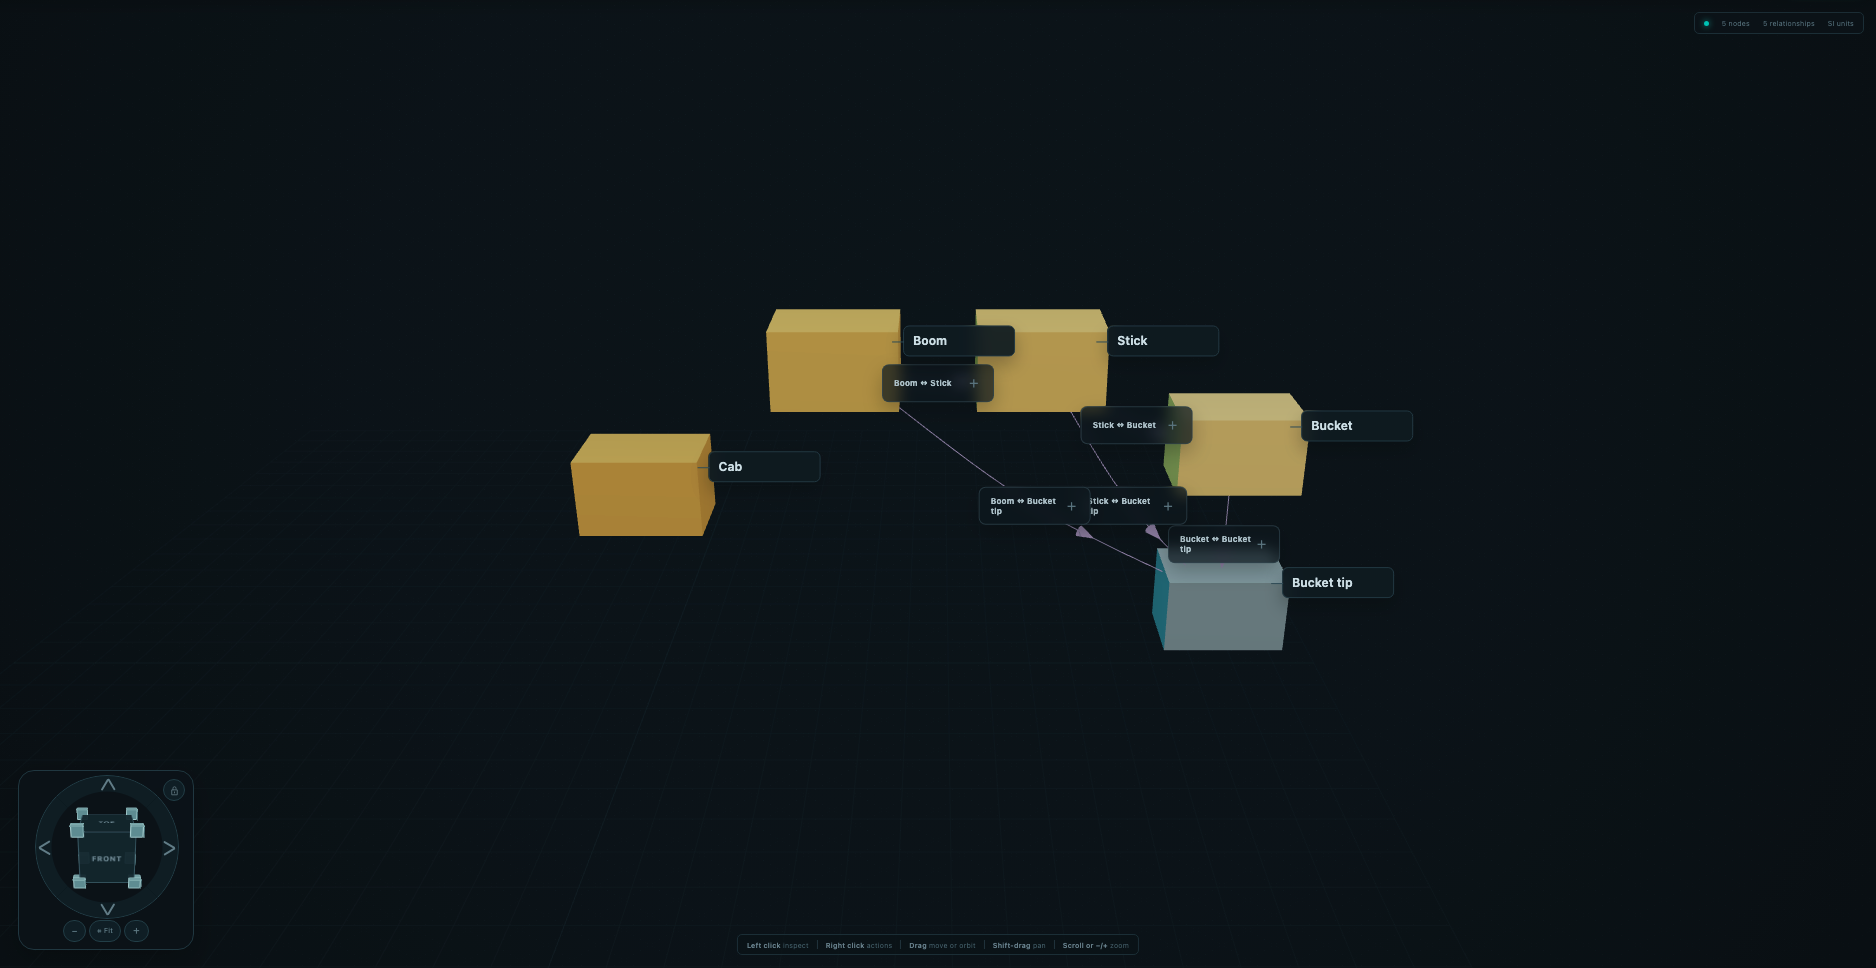
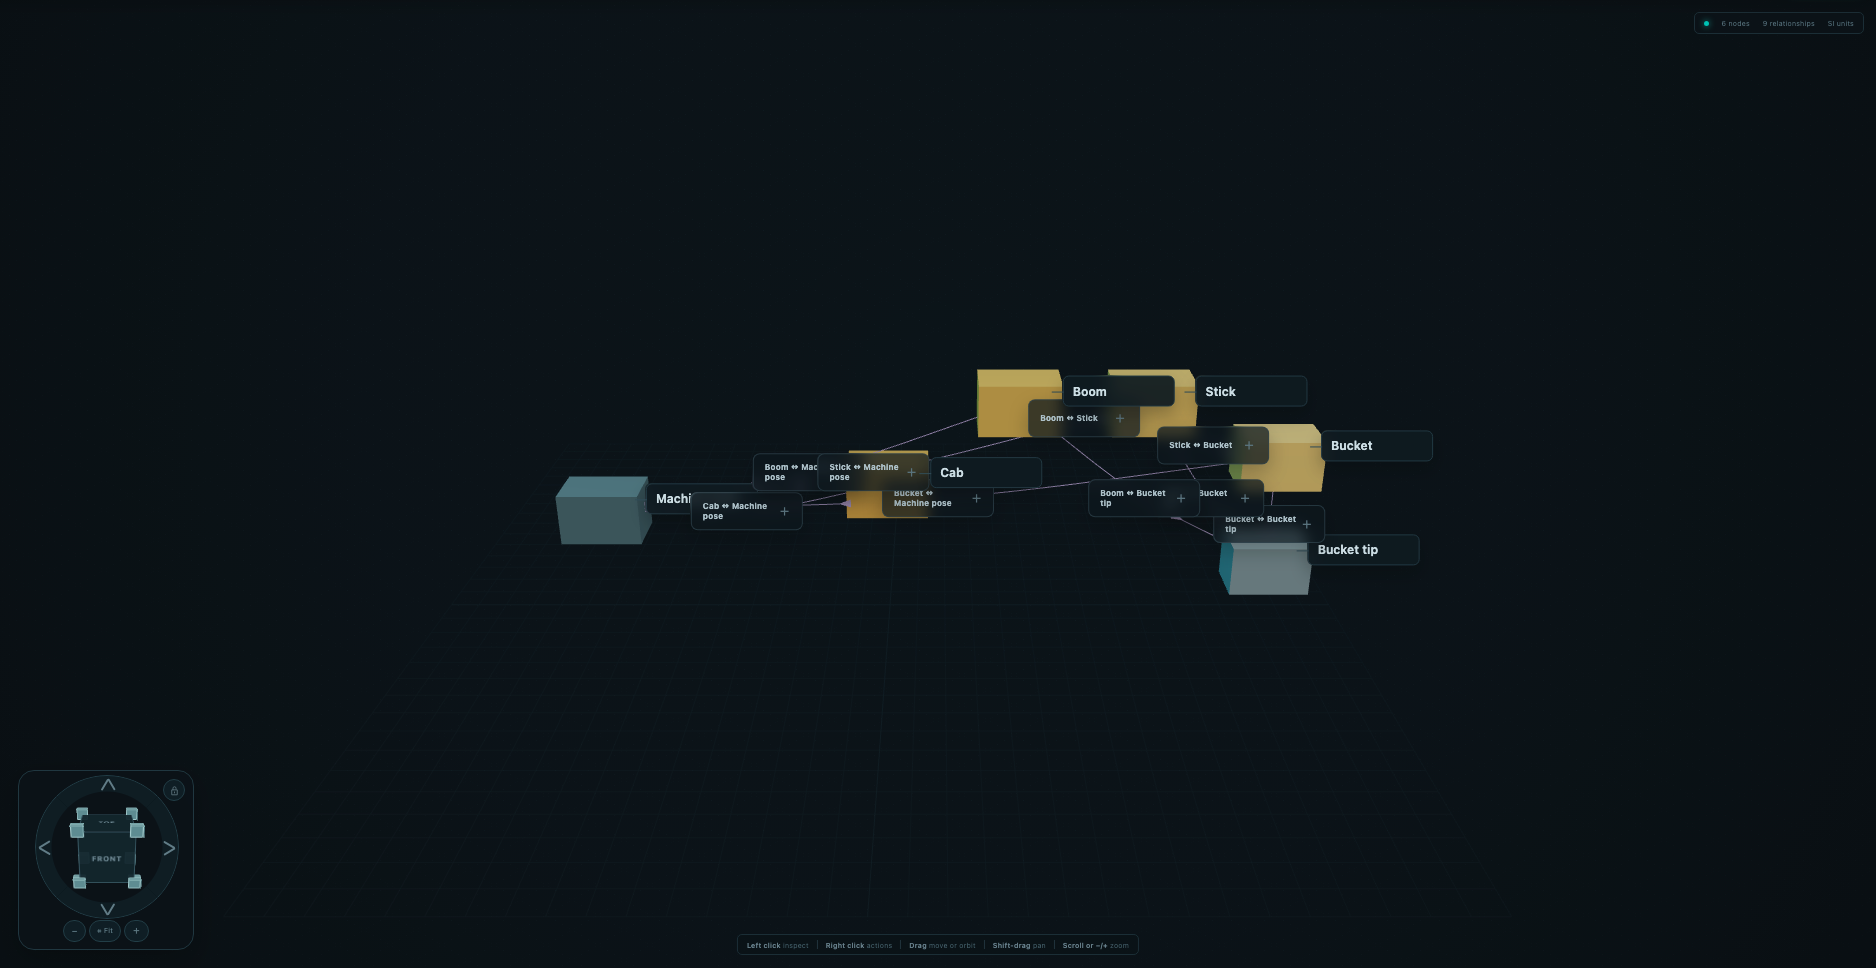
Updating dual joystick tutorial to open up pose visualizer

Changed region(s): [[0.2783, 0.3099, 0.742, 0.6818]]

diff --git a/docs/proposals/tutorials.md b/docs/proposals/tutorials.md
@@ -120,7 +120,7 @@ The third wave is thirteen, so that every feature is taught somewhere:
 | Parameters and run settings | *Spring Mass Damper* | Modelling | Opens the Parameters table, makes the two relationships' separate copies of the mass one shared parameter, changes it to 2 kg in the table, reads the run settings, runs it, opens the execution summary and plots a bounce √2 slower |
 | Lay out and dress a model | *Heated Water Tank* | Modelling | Moves the heater with the Move tool, gives the tank the shape library's Tank shape, makes it taller, locks the camera to 2D and changes the labels' detail |
 | Schedule changes during a run | *Position Controlled Joint* | Control | Starts an online run in real time, opens the live controls, gives the target angle a sine wave, reads the Changes record, repeats the run from it and plots the joint chasing the wave. Desktop |
-| Drive with two joysticks | *Excavator* | Control | Connects two joysticks (or one gamepad's two sticks), the card saying live what Konjugate sees and waiting for four axes in all, binds their four axes in Settings › Controllers to the excavator's swing, boom, stick and bucket commands in the usual operator layout (one press of Bind, then each command in turn, the card naming the control to move for each), starts a real-time online run and digs: the bucket's tip down to the ground and up above 3 m. Skipping the first step binds four pairs of keys instead, for anyone without joysticks, and skipping the dig has the excavator do it by itself. Desktop |
+| Drive with two joysticks | *Excavator* | Control | Connects two joysticks (or one gamepad's two sticks), the card saying live what Konjugate sees and waiting for four axes in all, binds their four axes in Settings › Controllers to the excavator's swing, boom, stick and bucket commands in the usual operator layout (one press of Bind, then each command in turn, the card naming the control to move for each), starts a real-time online run, opens the Pose Visualizer add-on on it to watch the machine in 3D as it is driven (a step to read and go on from, which says whether the add-on is installed, recent enough or waiting for a restart, and offers "Open it for me"; without the add-on, Next carries on), and digs: the bucket's tip down to the ground and up above 3 m. Skipping the first step binds four pairs of keys instead, for anyone without joysticks, and skipping the dig has the excavator do it by itself. Desktop |
 | Keep and share your work | *Thermal Management* | Results | Reads the project's properties, runs it and (desktop) extends the run, exports the results as CSV and saves the project with its results (answering whose details the copy carries) |
 | Take a model elsewhere | *Spring Mass Damper* | Results | Exports the model as a standalone Python program and (desktop) as an FMI 2.0 FMU |
 | Extend Konjugate | *Thermal Management* | Results | Opens Extensions › Discover, reads Results Analysis, installs it, restarts Konjugate to activate it (the tutorial carries on after the restart), runs the model and opens the add-on on its results. Desktop |
@@ -128,7 +128,7 @@ The third wave is thirteen, so that every feature is taught somewhere:
 | Match your signals to the model | An empty canvas | Data | In the twin's window, chooses "A plant's names", reviews the suggested matches and unit conversions, uses them and opens the control room. Desktop |
 | Refit a drifting twin | An empty canvas | Data | Plays "A rig that drifts" at 60×, refits the heat loss in the Engineer view and keeps it in the model, and tries the heater off in the sandbox, kept as a draft scenario. Desktop |
 
-The excavator (`examples/excavator.kjt`, written by `scripts/generateExcavatorExample.mjs`, with its guide and thumbnail) was made for the joystick tutorial: no shipped example had four live parameters. Each of its four joints follows a live command from −1 to 1 through a 0.3 s hydraulic lag; relationships that set values carry each part's absolute angle down the arm, and three of them, summed, set the bucket tip's height and reach exactly at every step. A unit test checks the shipped file is the one the script writes. A live run keeps only its latest sample in the window, so a check over a run's values (the dig's) keeps what it reads at each look. The lab's log is `examples/dataSources/labVesselLog.csv`, written by `labVessel.py` with its default seed (the same file every time); a tutorial may start from a model beside the examples, like the lab vessel's, which the example loader opens for the tutorials that list it and for nothing else.
+The excavator (`examples/excavator.kjt`, written by `scripts/generateExcavatorExample.mjs`, with its guide and thumbnail) was made for the joystick tutorial: no shipped example had four live parameters. Each of its four joints follows a live command from −1 to 1 through a 0.3 s hydraulic lag; relationships that set values carry each part's absolute angle down the arm, and three of them, summed, set the bucket tip's height and reach exactly at every step. A unit test checks the shipped file is the one the script writes. A live run keeps only its latest sample in the window, so a check over a run's values (the dig's) keeps what it reads at each look. The lab's log is `examples/dataSources/labVesselLog.csv`, written by `labVessel.py` with its default seed (the same file every time); a tutorial may start from a model beside the examples, like the lab vessel's, which the example loader opens for the tutorials that list it and for nothing else. Its "Machine pose" node holds the cab's, the boom's, the stick's and the bucket's poses, six states each under a prefix in the Pose Visualizer's own names (`boomX` to `boomYaw`), set by a relationship from each joint, and its appearance a box for each at its true size, so Pose Visualizer 1.0.7 (the first to find several bodies on one node and draw a node's parts at true size) draws the machine with nothing to set up; a test checks the bucket's far end lands on the tip the model reckons, and the tutorial's test opens the add-on during the run and watches the stick's end come down as the boom is lowered.
 
 ## What the tutorials cover
 

diff --git a/examples/excavator.md b/examples/excavator.md
@@ -4,7 +4,7 @@
 
 ## Overview
 
-A small excavator's four functions, made to be driven by hand with two joysticks the way an operator drives one: the cab's swing, the boom, the stick and the bucket. Each is a joint whose speed follows a live command from −1 to 1 through the lag of its hydraulics, so a stick held over moves its joint steadily and a stick let go stops it. Where the bucket's tip is, its height above the ground and its reach from the swing axis, is worked out exactly at every step from the four angles. Bind a joystick axis to each command (Settings › Controllers, or Bind… in the live controls during an online run) and dig.
+A small excavator's four functions, made to be driven by hand with two joysticks the way an operator drives one: the cab's swing, the boom, the stick and the bucket. Each is a joint whose speed follows a live command from −1 to 1 through the lag of its hydraulics, so a stick held over moves its joint steadily and a stick let go stops it. Where the bucket's tip is, its height above the ground and its reach from the swing axis, is worked out exactly at every step from the four angles. Bind a joystick axis to each command (Settings › Controllers, or Bind… in the live controls during an online run) and dig. With the Pose Visualizer add-on (1.0.7 or later), press Pose on the left rail during the run to watch the machine in 3D as you drive it.
 
 ## Model structure
 
@@ -15,6 +15,8 @@ A small excavator's four functions, made to be driven by hand with two joysticks
 - **Stick on boom / Bucket on stick:** relationships that set each part's absolute angle, its joint's angle plus the absolute angle of the part it hangs from
 - **Boom reach / Stick reach / Bucket reach:** relationships that set the bucket tip's height and reach, each adding its part's share
 - **Bucket tip:** its height (m, 0 is the ground) and its reach (m)
+- **Machine pose:** where the cab, the boom, the stick and the bucket are in space, six states each (`boomX`, `boomY`, `boomZ`, `boomRoll`, `boomPitch`, `boomYaw`, and so on), and a box for each at its true size, for the Pose Visualizer add-on to draw
+- **Cab pose / Boom pose / Stick pose / Bucket pose:** relationships that set each part's pose: the cab turned by the swing, the boom standing on the cab at its pivot, the stick at the boom's far end, the bucket at the stick's
 
 The usual operator layout is: left joystick, left and right to swing, forward and back for the stick; right joystick, forward and back for the boom, left and right for the bucket.
 
@@ -34,10 +36,16 @@ $$h = 1.8 + 5.7\sin\phi_{boom} + 2.9\sin\phi_{stick} + 1.5\sin\phi_{bucket}$$
 
 $$r = 0.8 + 5.7\cos\phi_{boom} + 2.9\cos\phi_{stick} + 1.5\cos\phi_{bucket}$$
 
+In 3D (x and y the ground, z up), each part is held at the far end of the one before it and turned by the swing $s$; its pitch is minus its absolute angle, as the Pose Visualizer turns a body by its yaw, then its pitch:
+
+$$\mathbf{p}_{boom} = (0.8\cos s,\; 0.8\sin s,\; 1.8) \qquad \mathbf{p}_{stick} = \mathbf{p}_{boom} + 5.7\,(\cos\phi_{boom}\cos s,\; \cos\phi_{boom}\sin s,\; \sin\phi_{boom})$$
+
+and the bucket's the same from the stick's. The bucket's far end is the tip.
+
 ## Expected behaviour
 
 With every command centred nothing moves: the tip waits 0.93 m above the ground, 5.52 m out. Held full down, the boom lowers at 0.3 rad/s, reaching full speed within about a second, and the tip touches the ground about a second later, still moving out. Each part keeps its angle relative to the one it hangs from, so lowering the boom carries the stick and the bucket down with it.
 
 ## Simplifications
 
-The joints have no end stops, so a function held over long enough turns past where a real machine's cylinders would stop it, and the ground does not push back: a tip below 0 m has dug into it. Each function's speed depends only on its own command, as if the pump had flow to spare for all four at once; a real machine slows when several functions share its pump. The swing turns the whole arm, but the height and reach do not depend on it.
+The joints have no end stops, so a function held over long enough turns past where a real machine's cylinders would stop it, and the ground does not push back: a tip below 0 m has dug into it. Each function's speed depends only on its own command, as if the pump had flow to spare for all four at once; a real machine slows when several functions share its pump. The swing turns the whole arm, but the height and reach do not depend on it. The boxes the 3D view draws are only to show where each part is: they do not collide with each other or the ground.
